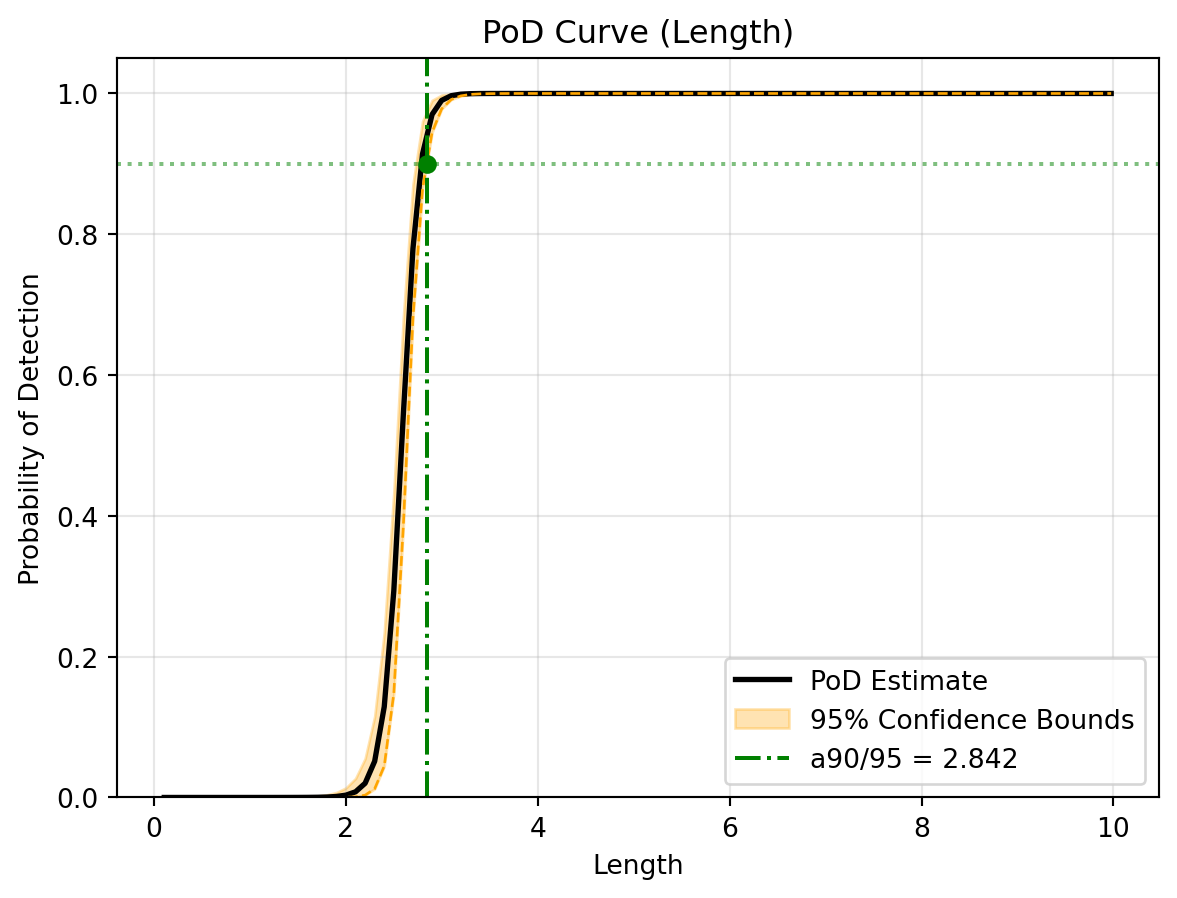
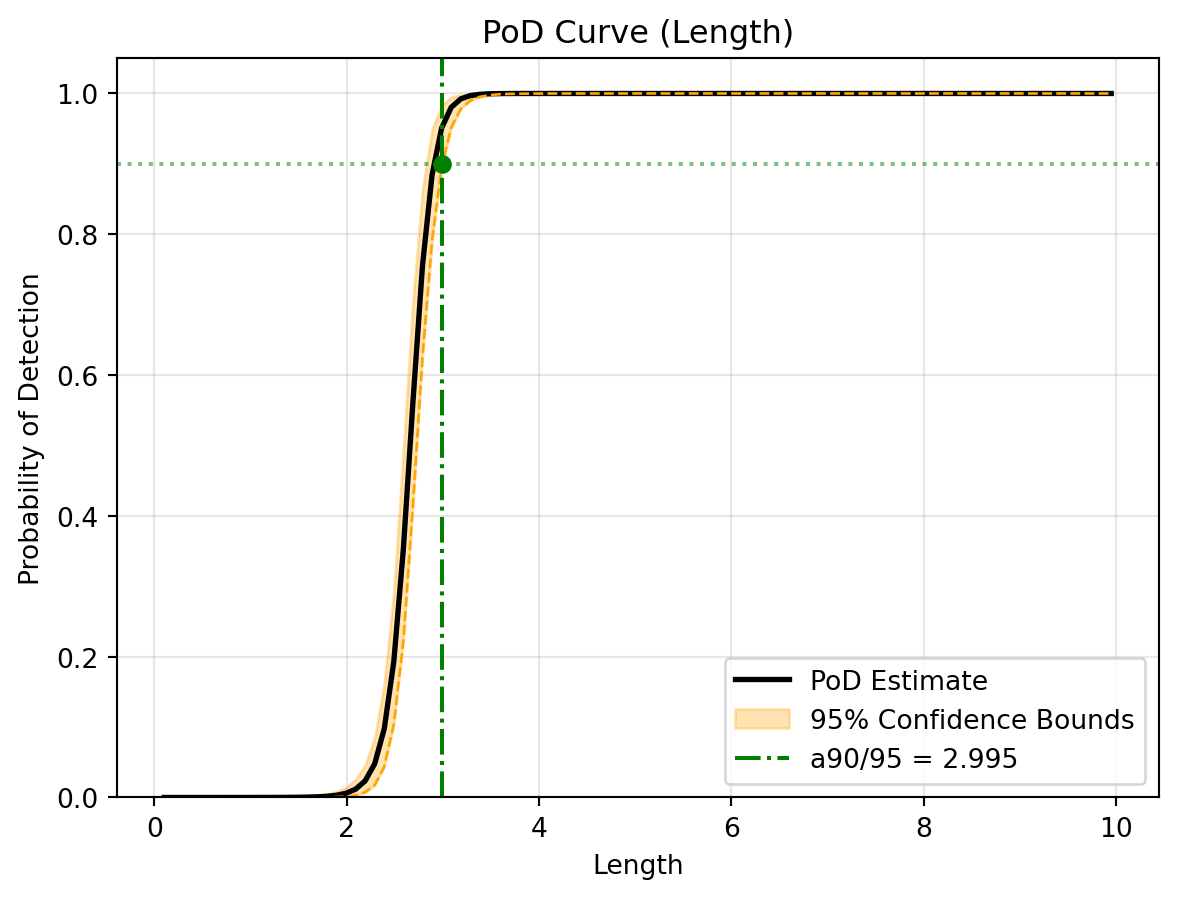
Built site for gh-pages

diff --git a/docs/qs_class.html b/docs/qs_class.html
@@ -252,7 +252,7 @@ pre > code.sourceCode > span > a:first-child::before { text-decoration: underlin
 <section id="setup-flawed-data-generation" class="level3">
 <h3 class="anchored" data-anchor-id="setup-flawed-data-generation">1. Setup &amp; “Flawed” Data Generation</h3>
 <p>First, we define our physics simulation and create a dataset with a deliberate gap (missing data between 3mm and 7mm).</p>
-<div id="c9021370" class="cell" data-execution_count="1">
+<div id="530b1b97" class="cell" data-execution_count="1">
 <div class="code-copy-outer-scaffold"><div class="sourceCode cell-code" id="cb1"><pre class="sourceCode python code-with-copy"><code class="sourceCode python"><span id="cb1-1"><a href="#cb1-1" aria-hidden="true" tabindex="-1"></a><span class="im">import</span> numpy <span class="im">as</span> np</span>
 <span id="cb1-2"><a href="#cb1-2" aria-hidden="true" tabindex="-1"></a><span class="im">import</span> pandas <span class="im">as</span> pd</span>
 <span id="cb1-3"><a href="#cb1-3" aria-hidden="true" tabindex="-1"></a><span class="im">import</span> matplotlib.pyplot <span class="im">as</span> plt</span>
@@ -296,7 +296,7 @@ pre > code.sourceCode > span > a:first-child::before { text-decoration: underlin
 <span id="cb1-41"><a href="#cb1-41" aria-hidden="true" tabindex="-1"></a>    }</span>
 <span id="cb1-42"><a href="#cb1-42" aria-hidden="true" tabindex="-1"></a>)</span>
 <span id="cb1-43"><a href="#cb1-43" aria-hidden="true" tabindex="-1"></a></span>
-<span id="cb1-44"><a href="#cb1-44" aria-hidden="true" tabindex="-1"></a><span class="co"># Combine and Initialize Study</span></span>
+<span id="cb1-44"><a href="#cb1-44" aria-hidden="true" tabindex="-1"></a><span class="co"># Combine and Initialise Study</span></span>
 <span id="cb1-45"><a href="#cb1-45" aria-hidden="true" tabindex="-1"></a>df_initial <span class="op">=</span> pd.concat([df1, df2], ignore_index<span class="op">=</span><span class="va">True</span>)</span>
 <span id="cb1-46"><a href="#cb1-46" aria-hidden="true" tabindex="-1"></a>df_initial[<span class="st">"Signal"</span>] <span class="op">=</span> apply_physics(df_initial)</span>
 <span id="cb1-47"><a href="#cb1-47" aria-hidden="true" tabindex="-1"></a></span>
@@ -312,7 +312,7 @@ pre > code.sourceCode > span > a:first-child::before { text-decoration: underlin
 <section id="diagnosis-detecting-the-issue" class="level3">
 <h3 class="anchored" data-anchor-id="diagnosis-detecting-the-issue">2. Diagnosis (Detecting the Issue)</h3>
 <p>We now ask the study manager to diagnose the health of our experiment. We expect it to flag the Input Coverage test because of the gap we created.</p>
-<div id="cef6b59a" class="cell" data-execution_count="2">
+<div id="5848f3c5" class="cell" data-execution_count="2">
 <div class="code-copy-outer-scaffold"><div class="sourceCode cell-code" id="cb3"><pre class="sourceCode python code-with-copy"><code class="sourceCode python"><span id="cb3-1"><a href="#cb3-1" aria-hidden="true" tabindex="-1"></a>study.diagnose()</span></code></pre></div><button title="Copy to Clipboard" class="code-copy-button"><i class="bi"></i></button></div>
 <div class="cell-output cell-output-stdout">
 <pre><code>Running validation...
@@ -341,7 +341,7 @@ Checking sample sufficiency...</code></pre>
 <td>Input Coverage</td>
 <td>Length</td>
 <td>Max Gap Ratio</td>
-<td>0.4187</td>
+<td>0.4122</td>
 <td>&lt; 0.20</td>
 <td>False</td>
 </tr>
@@ -350,7 +350,7 @@ Checking sample sufficiency...</code></pre>
 <td>Input Coverage</td>
 <td>Angle</td>
 <td>Max Gap Ratio</td>
-<td>0.0653</td>
+<td>0.0648</td>
 <td>&lt; 0.20</td>
 <td>True</td>
 </tr>
@@ -359,7 +359,7 @@ Checking sample sufficiency...</code></pre>
 <td>Input Coverage</td>
 <td>Roughness</td>
 <td>Max Gap Ratio</td>
-<td>0.0585</td>
+<td>0.0575</td>
 <td>&lt; 0.20</td>
 <td>True</td>
 </tr>
@@ -368,7 +368,7 @@ Checking sample sufficiency...</code></pre>
 <td>Model Fit (CV)</td>
 <td>Signal</td>
 <td>Mean R2 Score</td>
-<td>0.9980</td>
+<td>0.9972</td>
 <td>&gt; 0.50</td>
 <td>True</td>
 </tr>
@@ -377,7 +377,7 @@ Checking sample sufficiency...</code></pre>
 <td>Bootstrap Convergence</td>
 <td>Signal</td>
 <td>Avg CV (Rel Std Dev)</td>
-<td>0.0171</td>
+<td>0.0192</td>
 <td>&lt; 0.15</td>
 <td>True</td>
 </tr>
@@ -386,7 +386,7 @@ Checking sample sufficiency...</code></pre>
 <td>Bootstrap Convergence</td>
 <td>Signal</td>
 <td>Max CV (Rel Std Dev)</td>
-<td>0.0366</td>
+<td>0.0405</td>
 <td>&lt; 0.30</td>
 <td>True</td>
 </tr>
@@ -400,7 +400,7 @@ Checking sample sufficiency...</code></pre>
 <section id="adaptive-refinement-the-fix" class="level3">
 <h3 class="anchored" data-anchor-id="adaptive-refinement-the-fix">3. Adaptive Refinement (The Fix)</h3>
 <p>Instead of manually guessing where to add points, we use refine(). The study manager automatically detects the gap and generates targeted samples to fill it. In this example, we run the <code>apply_physics()</code> function, but in reality, users should feed the new samples dataframe into their simulation engine to calculate the outcome variable. Users can then add those results into the SimulationStudy class using the <code>add_data()</code> method.</p>
-<div id="8da4ccb2" class="cell" data-execution_count="3">
+<div id="38e77506" class="cell" data-execution_count="3">
 <div class="code-copy-outer-scaffold"><div class="sourceCode cell-code" id="cb5"><pre class="sourceCode python code-with-copy"><code class="sourceCode python"><span id="cb5-1"><a href="#cb5-1" aria-hidden="true" tabindex="-1"></a><span class="co"># Generate active learning samples (20 points to fill the gap)</span></span>
 <span id="cb5-2"><a href="#cb5-2" aria-hidden="true" tabindex="-1"></a>new_samples <span class="op">=</span> study.refine(n_points<span class="op">=</span><span class="dv">20</span>)</span>
 <span id="cb5-3"><a href="#cb5-3" aria-hidden="true" tabindex="-1"></a></span>
@@ -417,7 +417,7 @@ Data updated. Total rows: 100</code></pre>
 </div>
 </div>
 <p>Now we verify that the issue is resolved:</p>
-<div id="d6de0732" class="cell" data-execution_count="4">
+<div id="31eab517" class="cell" data-execution_count="4">
 <div class="code-copy-outer-scaffold"><div class="sourceCode cell-code" id="cb7"><pre class="sourceCode python code-with-copy"><code class="sourceCode python"><span id="cb7-1"><a href="#cb7-1" aria-hidden="true" tabindex="-1"></a><span class="co"># Re-run diagnostics to confirm the green light</span></span>
 <span id="cb7-2"><a href="#cb7-2" aria-hidden="true" tabindex="-1"></a>study.diagnose()</span></code></pre></div><button title="Copy to Clipboard" class="code-copy-button"><i class="bi"></i></button></div>
 <div class="cell-output cell-output-stdout">
@@ -447,7 +447,7 @@ Checking sample sufficiency...</code></pre>
 <td>Input Coverage</td>
 <td>Length</td>
 <td>Max Gap Ratio</td>
-<td>0.0554</td>
+<td>0.0541</td>
 <td>&lt; 0.20</td>
 <td>True</td>
 </tr>
@@ -456,7 +456,7 @@ Checking sample sufficiency...</code></pre>
 <td>Input Coverage</td>
 <td>Angle</td>
 <td>Max Gap Ratio</td>
-<td>0.0573</td>
+<td>0.0639</td>
 <td>&lt; 0.20</td>
 <td>True</td>
 </tr>
@@ -465,7 +465,7 @@ Checking sample sufficiency...</code></pre>
 <td>Input Coverage</td>
 <td>Roughness</td>
 <td>Max Gap Ratio</td>
-<td>0.0506</td>
+<td>0.0507</td>
 <td>&lt; 0.20</td>
 <td>True</td>
 </tr>
@@ -474,7 +474,7 @@ Checking sample sufficiency...</code></pre>
 <td>Model Fit (CV)</td>
 <td>Signal</td>
 <td>Mean R2 Score</td>
-<td>0.9978</td>
+<td>0.9959</td>
 <td>&gt; 0.50</td>
 <td>True</td>
 </tr>
@@ -483,7 +483,7 @@ Checking sample sufficiency...</code></pre>
 <td>Bootstrap Convergence</td>
 <td>Signal</td>
 <td>Avg CV (Rel Std Dev)</td>
-<td>0.0131</td>
+<td>0.0224</td>
 <td>&lt; 0.15</td>
 <td>True</td>
 </tr>
@@ -492,7 +492,7 @@ Checking sample sufficiency...</code></pre>
 <td>Bootstrap Convergence</td>
 <td>Signal</td>
 <td>Max CV (Rel Std Dev)</td>
-<td>0.0289</td>
+<td>0.0517</td>
 <td>&lt; 0.30</td>
 <td>True</td>
 </tr>
@@ -515,16 +515,16 @@ Checking sample sufficiency...</code></pre>
 1. Selecting Mean Model (Cross-Validation)...
 -&gt; Selected Model: Kriging (Gaussian Process)
 2. Fitting Variance Model (Kernel Smoothing)...
-   -&gt; Smoothing Bandwidth: 0.9871
+   -&gt; Smoothing Bandwidth: 0.9849
 3. Inferring Error Distribution (AIC)...
    -&gt; Selected Distribution: logistic
 4. Computing PoD Curve...
 5. Running Bootstrap (1000 iterations)...
-   -&gt; a90/95 Reliability Index: 2.842
+   -&gt; a90/95 Reliability Index: 2.995
 --- Analysis Complete ---</code></pre>
 </div>
 </div>
-<div class="code-copy-outer-scaffold"><div class="sourceCode cell-code" id="cb11"><pre class="sourceCode python code-with-copy"><code class="sourceCode python"><span id="cb11-1"><a href="#cb11-1" aria-hidden="true" tabindex="-1"></a><span class="co"># 2. Visualize Results</span></span>
+<div class="code-copy-outer-scaffold"><div class="sourceCode cell-code" id="cb11"><pre class="sourceCode python code-with-copy"><code class="sourceCode python"><span id="cb11-1"><a href="#cb11-1" aria-hidden="true" tabindex="-1"></a><span class="co"># 2. Visualise Results</span></span>
 <span id="cb11-2"><a href="#cb11-2" aria-hidden="true" tabindex="-1"></a>study.visualise()</span></code></pre></div><button title="Copy to Clipboard" class="code-copy-button"><i class="bi"></i></button></div>
 <div id="fig-results" class="quarto-layout-panel">
 <figure class="quarto-float quarto-float-fig figure">

diff --git a/docs/optimisation.html b/docs/optimisation.html
@@ -290,7 +290,7 @@ pre > code.sourceCode > span > a:first-child::before { text-decoration: underlin
 <h3 class="anchored" data-anchor-id="define-a-mock-solver">1. Define a “Mock” Solver</h3>
 <p>For this tutorial, we will use a Python one-liner as our “solver” instead of a complex physics engine. We use <code>python -c</code> to run this as if it were an external Command Line Interface (CLI) tool.</p>
 <p>Notice how the <code>SOLVER_CMD</code> utilises the <code>{input}</code> and <code>{output}</code> placeholders.</p>
-<div id="9d4466d8" class="cell" data-execution_count="1">
+<div id="5d57a6f5" class="cell" data-execution_count="1">
 <div class="code-copy-outer-scaffold"><div class="sourceCode cell-code" id="cb1"><pre class="sourceCode python code-with-copy"><code class="sourceCode python"><span id="cb1-1"><a href="#cb1-1" aria-hidden="true" tabindex="-1"></a><span class="im">import</span> sys</span>
 <span id="cb1-2"><a href="#cb1-2" aria-hidden="true" tabindex="-1"></a></span>
 <span id="cb1-3"><a href="#cb1-3" aria-hidden="true" tabindex="-1"></a><span class="co"># A complex, non-linear physics model to trigger multiple optimisation loops</span></span>
@@ -306,7 +306,7 @@ pre > code.sourceCode > span > a:first-child::before { text-decoration: underlin
 <section id="configure-the-study" class="level3">
 <h3 class="anchored" data-anchor-id="configure-the-study">2. Configure the Study</h3>
 <p>We define our input variables and the ranges we want to explore.</p>
-<div id="c92dff20" class="cell" data-execution_count="2">
+<div id="3ed751ef" class="cell" data-execution_count="2">
 <div class="code-copy-outer-scaffold"><div class="sourceCode cell-code" id="cb2"><pre class="sourceCode python code-with-copy"><code class="sourceCode python"><span id="cb2-1"><a href="#cb2-1" aria-hidden="true" tabindex="-1"></a><span class="im">from</span> digiqual.core <span class="im">import</span> SimulationStudy</span>
 <span id="cb2-2"><a href="#cb2-2" aria-hidden="true" tabindex="-1"></a></span>
 <span id="cb2-3"><a href="#cb2-3" aria-hidden="true" tabindex="-1"></a><span class="co"># Define inputs ranges</span></span>
@@ -326,7 +326,7 @@ pre > code.sourceCode > span > a:first-child::before { text-decoration: underlin
 <li>If needed, generates up to 10 new points targeting weak areas and repeats (up to 5 times).</li>
 <li>Checks the elapsed time against <code>max_hours</code> to ensure the loop stops safely if the physical time limit is reached.</li>
 </ol>
-<div id="40550999" class="cell" data-execution_count="3">
+<div id="68de4d72" class="cell" data-execution_count="3">
 <div class="code-copy-outer-scaffold"><div class="sourceCode cell-code" id="cb3"><pre class="sourceCode python code-with-copy"><code class="sourceCode python"><span id="cb3-1"><a href="#cb3-1" aria-hidden="true" tabindex="-1"></a>study.optimise(</span>
 <span id="cb3-2"><a href="#cb3-2" aria-hidden="true" tabindex="-1"></a>    command<span class="op">=</span>SOLVER_CMD,</span>
 <span id="cb3-3"><a href="#cb3-3" aria-hidden="true" tabindex="-1"></a>    ranges<span class="op">=</span>ranges,</span>
@@ -396,14 +396,14 @@ Running validation...
 Validation passed. 50 valid rows ready.
 --- Starting Reliability Analysis (PoI: Length) ---
 1. Selecting Mean Model (Cross-Validation)...
--&gt; Selected Model: Polynomial (Degree 5)
+-&gt; Selected Model: Polynomial (Degree 3)
 2. Fitting Variance Model (Kernel Smoothing)...
-   -&gt; Smoothing Bandwidth: 0.4633
+   -&gt; Smoothing Bandwidth: 0.4860
 3. Inferring Error Distribution (AIC)...
    -&gt; Selected Distribution: norm
 4. Computing PoD Curve...
 5. Running Bootstrap (1000 iterations)...
-   -&gt; a90/95 Reliability Index: 2.759
+   -&gt; a90/95 Reliability Index: 2.658
 --- Analysis Complete ---</code></pre>
 </div>
 </div>
@@ -473,7 +473,7 @@ Figure&nbsp;1: Reliability Analysis Results
 <h3 class="anchored" data-anchor-id="example-a-connecting-a-custom-python-model">Example A: Connecting a Custom Python Model</h3>
 <p>Imagine you have an existing Python file (<code>beam_model.py</code>) that contains a complex physics function. You want DigiQual to optimise it.</p>
 <p><strong>1. The Existing Physics Solver (<code>beam_model.py</code>)</strong> This is your actual engineering code. It doesn’t know anything about CSVs or DigiQual.</p>
-<div id="efafd942" class="cell" data-execution_count="5">
+<div id="9b481561" class="cell" data-execution_count="5">
 <div class="code-copy-outer-scaffold"><div class="sourceCode cell-code" id="cb7"><pre class="sourceCode python code-with-copy"><code class="sourceCode python"><span id="cb7-1"><a href="#cb7-1" aria-hidden="true" tabindex="-1"></a><span class="co"># beam_model.py</span></span>
 <span id="cb7-2"><a href="#cb7-2" aria-hidden="true" tabindex="-1"></a><span class="kw">def</span> simulate_beam(length, angle):</span>
 <span id="cb7-3"><a href="#cb7-3" aria-hidden="true" tabindex="-1"></a>    <span class="co">"""A complex, proprietary physics calculation."""</span></span>
@@ -482,7 +482,7 @@ Figure&nbsp;1: Reliability Analysis Results
 <span id="cb7-6"><a href="#cb7-6" aria-hidden="true" tabindex="-1"></a>    <span class="cf">return</span> signal_strength</span></code></pre></div><button title="Copy to Clipboard" class="code-copy-button"><i class="bi"></i></button></div>
 </div>
 <p><strong>2. The Wrapper Script (<code>python_wrapper.py</code>)</strong> This script acts as the bridge. It reads the CSV from the command line arguments, loops through the data to run the solver, and saves the result.</p>
-<div id="44ed3a45" class="cell" data-execution_count="6">
+<div id="faa5a0bc" class="cell" data-execution_count="6">
 <div class="code-copy-outer-scaffold"><div class="sourceCode cell-code" id="cb8"><pre class="sourceCode python code-with-copy"><code class="sourceCode python"><span id="cb8-1"><a href="#cb8-1" aria-hidden="true" tabindex="-1"></a><span class="co"># python_wrapper.py</span></span>
 <span id="cb8-2"><a href="#cb8-2" aria-hidden="true" tabindex="-1"></a><span class="im">import</span> sys</span>
 <span id="cb8-3"><a href="#cb8-3" aria-hidden="true" tabindex="-1"></a><span class="im">import</span> pandas <span class="im">as</span> pd</span>
@@ -511,7 +511,7 @@ Figure&nbsp;1: Reliability Analysis Results
 <span id="cb8-26"><a href="#cb8-26" aria-hidden="true" tabindex="-1"></a>    main()</span></code></pre></div><button title="Copy to Clipboard" class="code-copy-button"><i class="bi"></i></button></div>
 </div>
 <p><strong>3. The DigiQual Command</strong> In your main optimisation script, you define the <code>SOLVER_CMD</code> to call the Python wrapper, passing the placeholders as arguments.</p>
-<div id="007bc2bf" class="cell" data-execution_count="7">
+<div id="7ec65cc7" class="cell" data-execution_count="7">
 <div class="code-copy-outer-scaffold"><div class="sourceCode cell-code" id="cb9"><pre class="sourceCode python code-with-copy"><code class="sourceCode python"><span id="cb9-1"><a href="#cb9-1" aria-hidden="true" tabindex="-1"></a><span class="co"># In your main study script</span></span>
 <span id="cb9-2"><a href="#cb9-2" aria-hidden="true" tabindex="-1"></a>SOLVER_CMD <span class="op">=</span> <span class="st">"python python_wrapper.py </span><span class="sc">{input}</span><span class="st"> </span><span class="sc">{output}</span><span class="st">"</span></span>
 <span id="cb9-3"><a href="#cb9-3" aria-hidden="true" tabindex="-1"></a><span class="co"># study.optimise(command=SOLVER_CMD, ...)</span></span></code></pre></div><button title="Copy to Clipboard" class="code-copy-button"><i class="bi"></i></button></div>
@@ -552,7 +552,7 @@ Figure&nbsp;1: Reliability Analysis Results
 <span id="cb11-22"><a href="#cb11-22" aria-hidden="true" tabindex="-1"></a>    <span class="va">exit</span><span class="op">;</span></span>
 <span id="cb11-23"><a href="#cb11-23" aria-hidden="true" tabindex="-1"></a><span class="kw">end</span></span></code></pre></div><button title="Copy to Clipboard" class="code-copy-button"><i class="bi"></i></button></div>
 <p><strong>3. The DigiQual Command</strong> We construct a command that launches MATLAB without the graphical interface (<code>-batch</code>), tells it to run our wrapper, and safely injects the <code>{input}</code> and <code>{output}</code> paths as strings.</p>
-<div id="97adbf5a" class="cell" data-execution_count="8">
+<div id="5db78135" class="cell" data-execution_count="8">
 <div class="code-copy-outer-scaffold"><div class="sourceCode cell-code" id="cb12"><pre class="sourceCode python code-with-copy"><code class="sourceCode python"><span id="cb12-1"><a href="#cb12-1" aria-hidden="true" tabindex="-1"></a><span class="co"># In your main study script</span></span>
 <span id="cb12-2"><a href="#cb12-2" aria-hidden="true" tabindex="-1"></a>SOLVER_CMD <span class="op">=</span> <span class="st">"matlab -batch </span><span class="ch">\"</span><span class="st">matlab_wrapper('</span><span class="sc">{input}</span><span class="st">', '</span><span class="sc">{output}</span><span class="st">')</span><span class="ch">\"</span><span class="st">"</span></span>
 <span id="cb12-3"><a href="#cb12-3" aria-hidden="true" tabindex="-1"></a><span class="co"># study.optimise(command=SOLVER_CMD, ...)</span></span></code></pre></div><button title="Copy to Clipboard" class="code-copy-button"><i class="bi"></i></button></div>

diff --git a/docs/install.html b/docs/install.html
@@ -230,7 +230,7 @@ pre > code.sourceCode > span > a:first-child::before { text-decoration: underlin
 <h2 class="anchored" data-anchor-id="option-1-install-via-uv-recommended">Option 1: Install via uv (Recommended)</h2>
 <p>If you are managing a project with <code>uv</code>, add <code>digiqual</code> as a dependency:</p>
 <ul>
-<li>To install the latest stable release (v0.12.4):</li>
+<li>To install the latest stable release (v0.12.5):</li>
 </ul>
 <div class="code-copy-outer-scaffold"><div class="sourceCode" id="cb1"><pre class="sourceCode bash code-with-copy"><code class="sourceCode bash"><span id="cb1-1"><a href="#cb1-1" aria-hidden="true" tabindex="-1"></a><span class="ex">uv</span> add <span class="st">"digiqual"</span></span></code></pre></div><button title="Copy to Clipboard" class="code-copy-button"><i class="bi"></i></button></div>
 <ul>
@@ -242,7 +242,7 @@ pre > code.sourceCode > span > a:first-child::before { text-decoration: underlin
 </section>
 <section id="option-2-install-via-standard-pip" class="level2">
 <h2 class="anchored" data-anchor-id="option-2-install-via-standard-pip">Option 2: Install via standard pip</h2>
-<p>To install the latest stable release (v0.12.4):</p>
+<p>To install the latest stable release (v0.12.5):</p>
 <div class="code-copy-outer-scaffold"><div class="sourceCode" id="cb4"><pre class="sourceCode bash code-with-copy"><code class="sourceCode bash"><span id="cb4-1"><a href="#cb4-1" aria-hidden="true" tabindex="-1"></a><span class="ex">pip</span> install digiqual</span></code></pre></div><button title="Copy to Clipboard" class="code-copy-button"><i class="bi"></i></button></div>
 <p>To install the latest development version:</p>
 <div class="code-copy-outer-scaffold"><div class="sourceCode" id="cb5"><pre class="sourceCode bash code-with-copy"><code class="sourceCode bash"><span id="cb5-1"><a href="#cb5-1" aria-hidden="true" tabindex="-1"></a><span class="ex">pip</span> install <span class="st">"git+https://github.com/JGIBristol/digiqual.git"</span></span></code></pre></div><button title="Copy to Clipboard" class="code-copy-button"><i class="bi"></i></button></div>

diff --git a/docs/gui.html b/docs/gui.html
@@ -264,7 +264,7 @@ pre > code.sourceCode > span > a:first-child::before { text-decoration: underlin
 <section id="option-b-from-a-python-script" class="level3">
 <h3 class="anchored" data-anchor-id="option-b-from-a-python-script">Option B: From a Python Script</h3>
 <p>If you are already working inside a Python script or a Jupyter environment, you can launch it locally using the built-in UI function.</p>
-<div id="6f51d2d3" class="cell" data-execution_count="1">
+<div id="85b2aee7" class="cell" data-execution_count="1">
 <div class="code-copy-outer-scaffold"><div class="sourceCode cell-code" id="cb4"><pre class="sourceCode python code-with-copy"><code class="sourceCode python"><span id="cb4-1"><a href="#cb4-1" aria-hidden="true" tabindex="-1"></a><span class="co"># Launch the local application</span></span>
 <span id="cb4-2"><a href="#cb4-2" aria-hidden="true" tabindex="-1"></a><span class="im">from</span> digiqual <span class="im">import</span> dq_ui</span>
 <span id="cb4-3"><a href="#cb4-3" aria-hidden="true" tabindex="-1"></a></span>
@@ -297,7 +297,7 @@ pre > code.sourceCode > span > a:first-child::before { text-decoration: underlin
 <ul>
 <li><p>Select your Parameter of Interest (e.g., “Length”) and set your critical threshold (e.g., 18.0).</p></li>
 <li><p>The app handles the model fitting and bootstrapping in the background.</p></li>
-<li><p>It automatically visualizes the results, displaying both the Signal Response Model (Physics) and the Probability of Detection Curve (Reliability) side-by-side.</p></li>
+<li><p>It automatically visualises the results, displaying both the Signal Response Model (Physics) and the Probability of Detection Curve (Reliability) side-by-side.</p></li>
 </ul>
 
 
